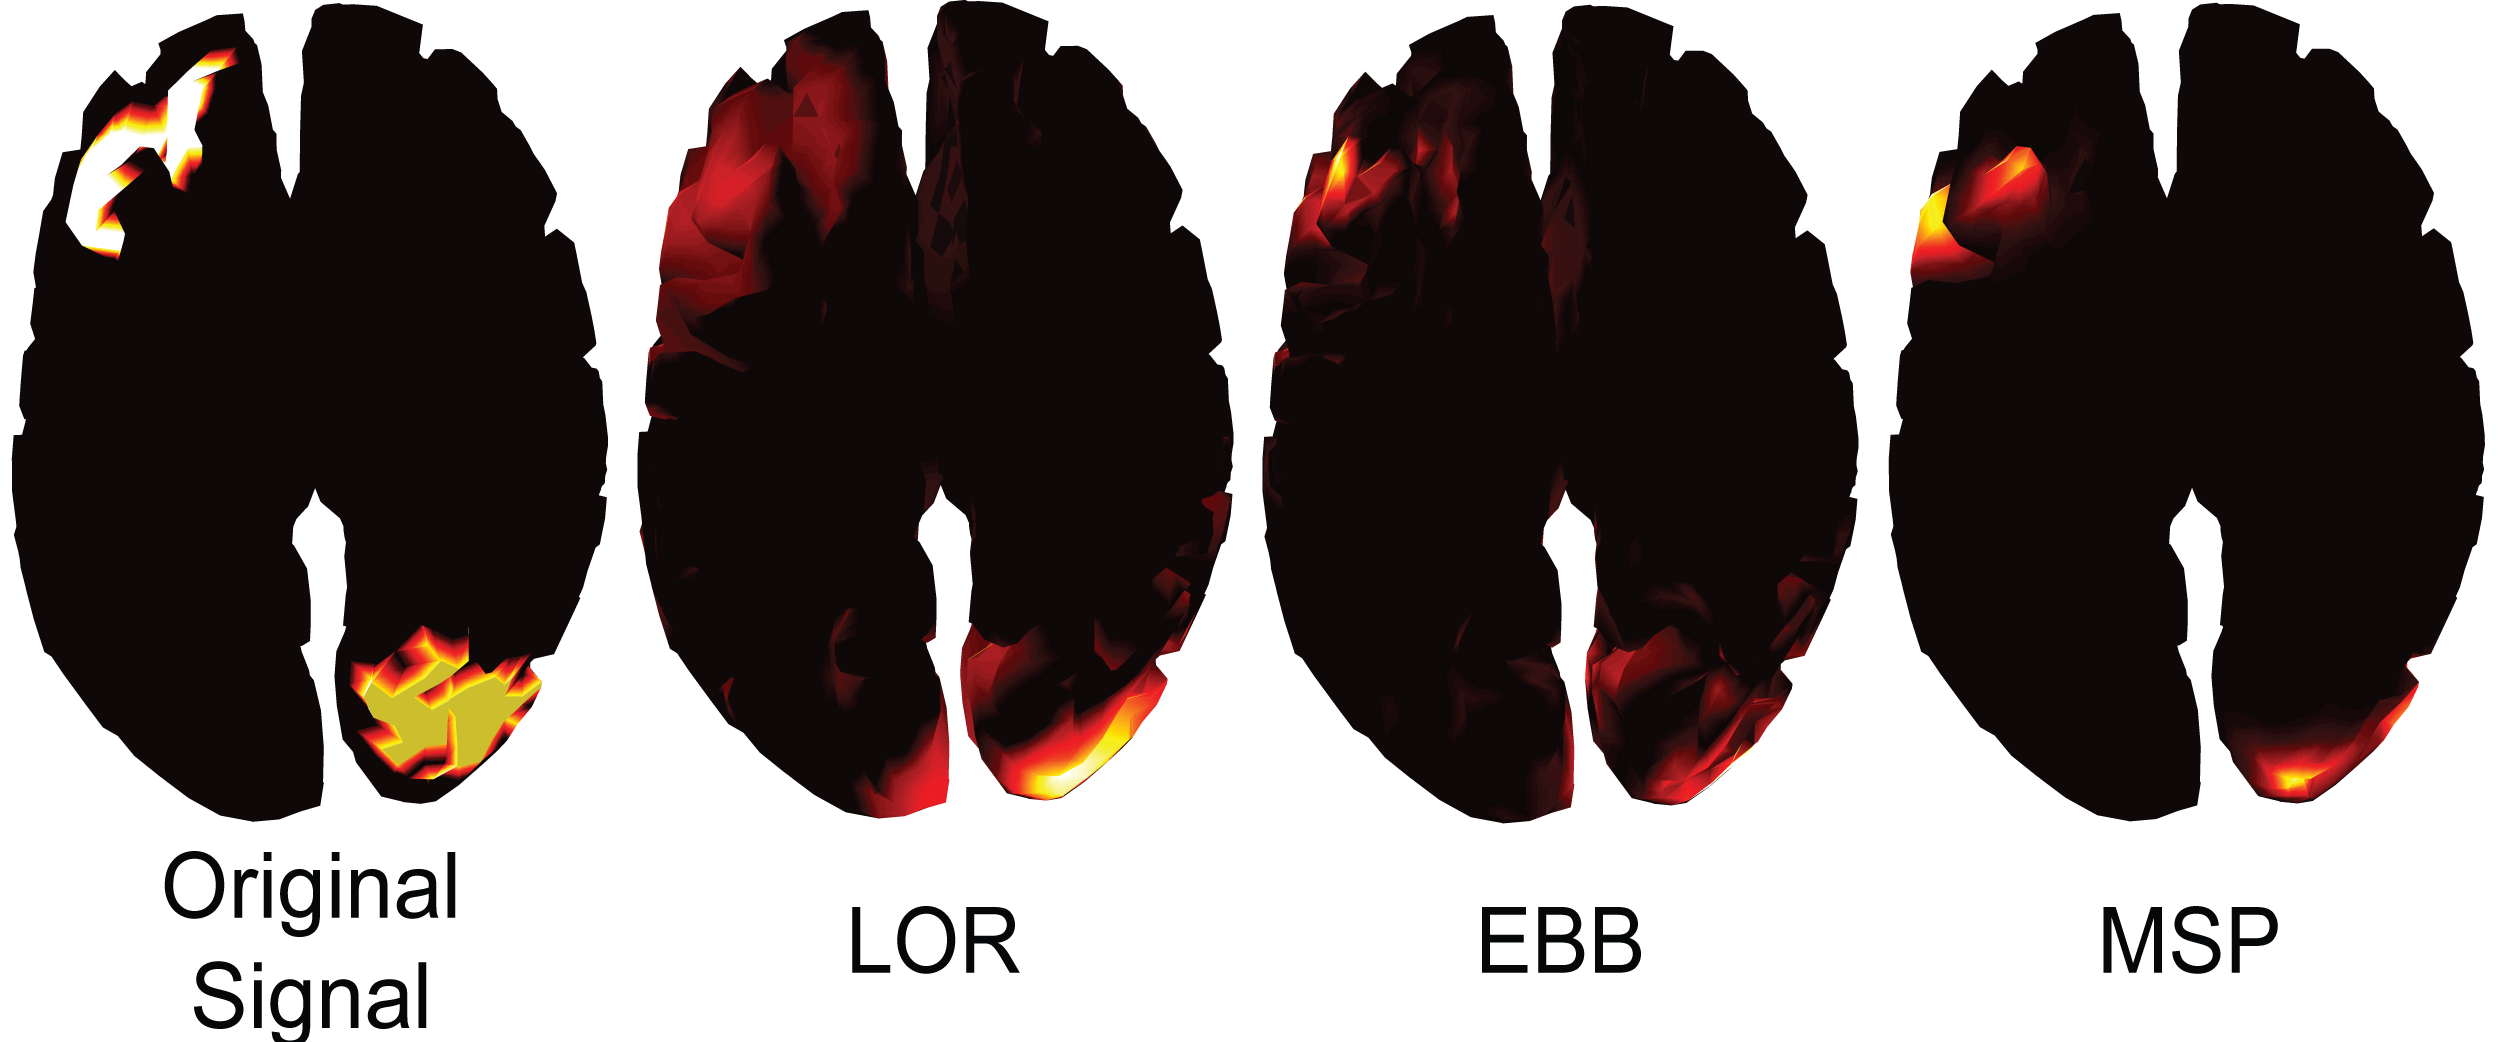
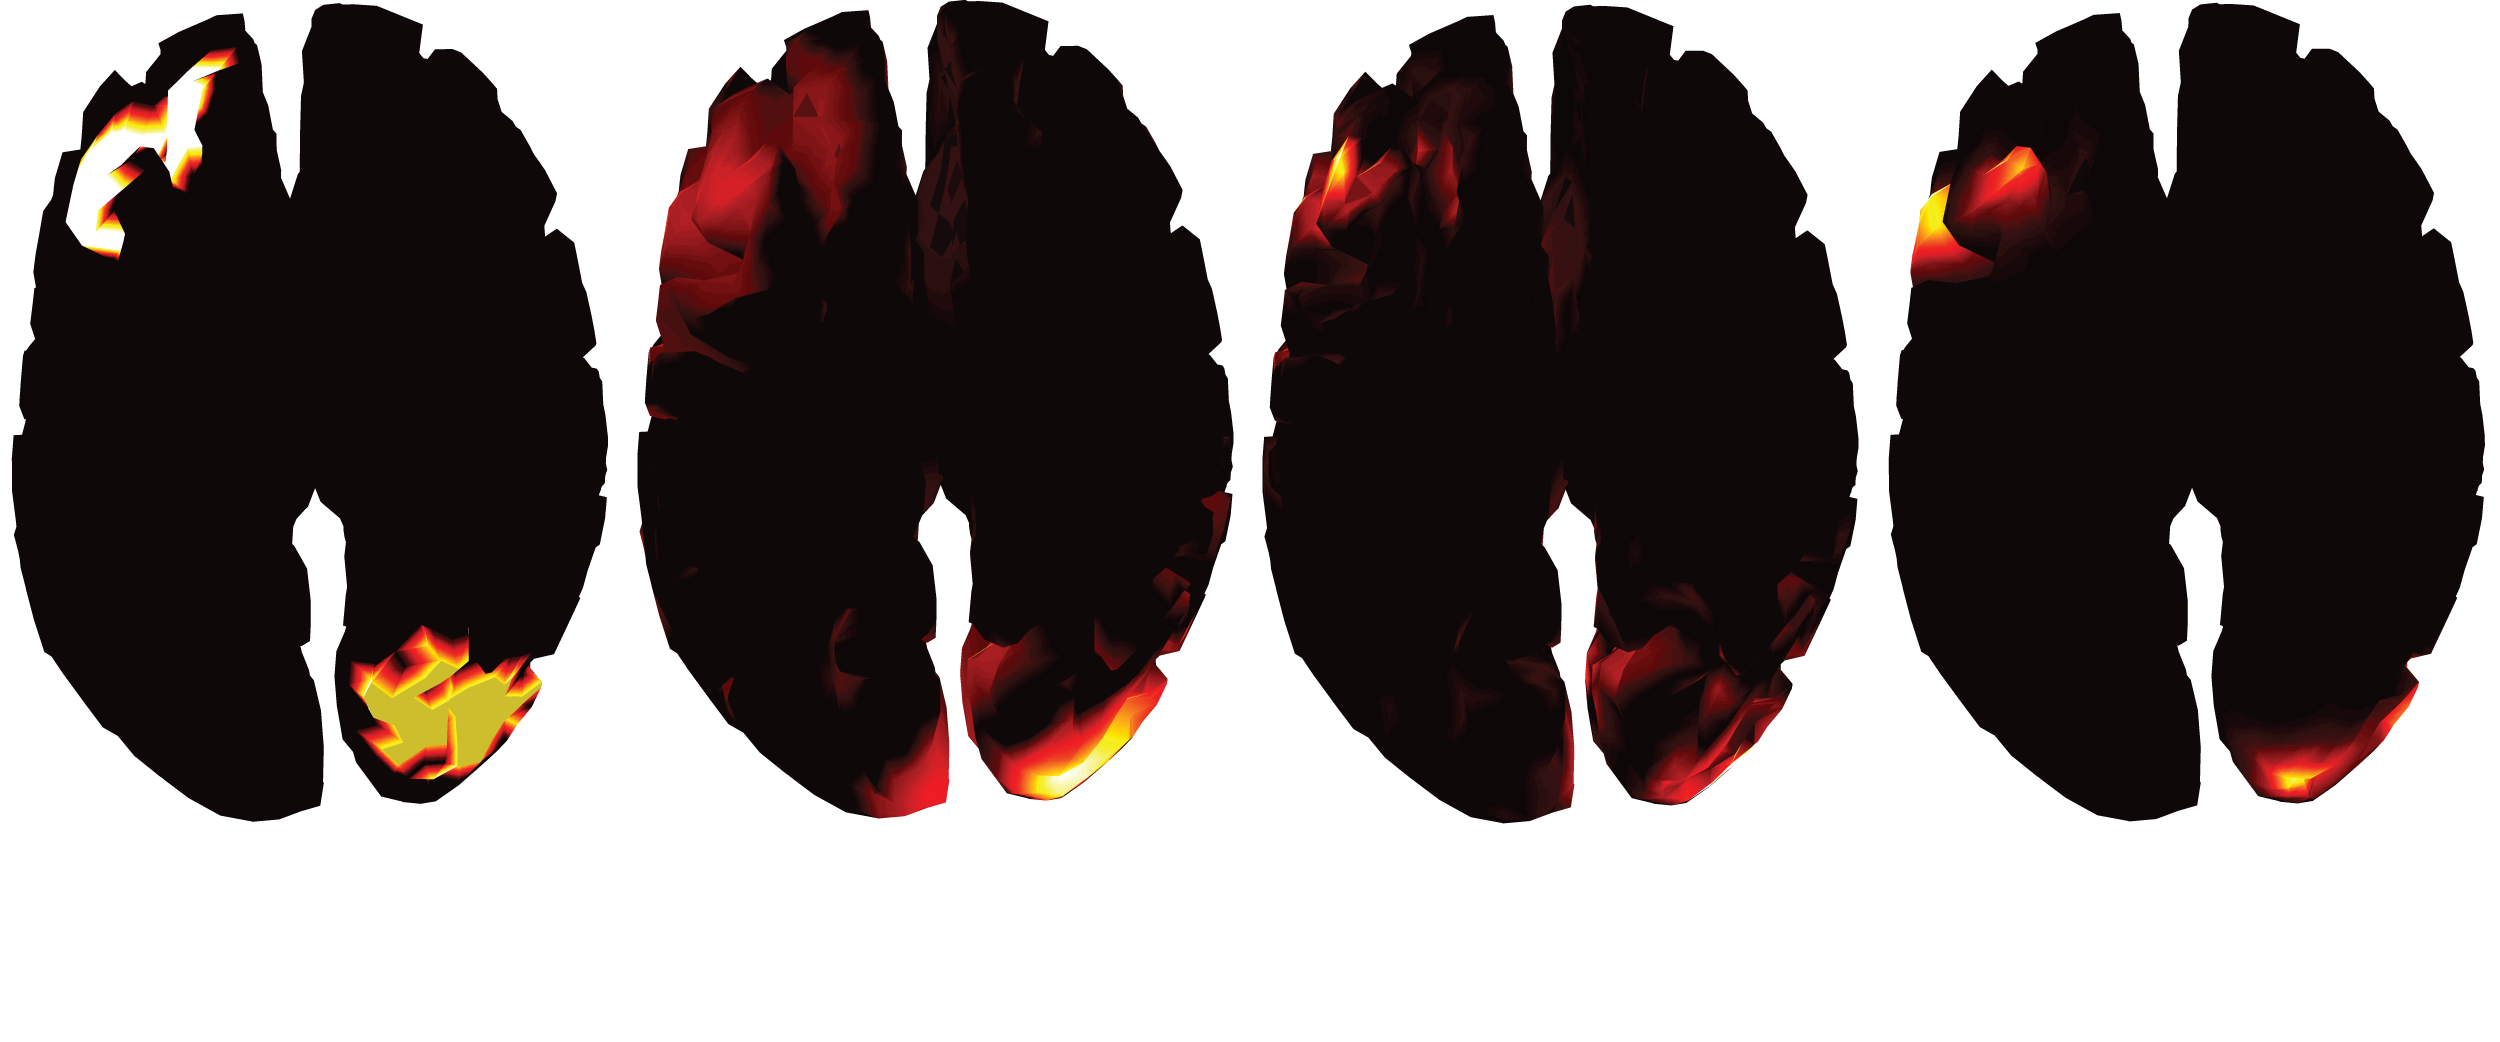
Added Figures

diff --git a/README.md b/README.md
@@ -10,16 +10,20 @@ The combination of high-density electroencephalography (hd-EEG) and transcranial
 ## Methods.
 
 Simulated multi-trial TMS-like responses were created using a phase-jittered damped oscillator model with frequencies and latencies of real TMS-evoked potentials and corrupted by additive pink noise and alpha waves at different intensities. The resulting simulated sources were then applied to dipolar vertices located in the frontal and occipital lobes of a cortical template. A forward operator, calculated by applying the Boundary Element Method to real geometry, was used to project the simulated currents onto a high-density EEG-space. Three well-known inverse methods were then employed to estimate sources from the simulated EEG signals: Loreta (LOR), Empirical Bayesian Beamformer (EBB) and Multiple Sparse Priors (MSP). A non-parametric statistics with respect to the baseline (pre-stimulus) was applied to the estimated currents and significant spatiotemporal patterns of TMS-evoked activations were finally extracted for each method. Localization errors produced by each method were tested by calculating the total number of errors, the geodesic distance to the real activated regions and the intensity of misplaced signals for different levels of noise and current distribution.
-![Figure 1](Figures/Methods%20Fluxogram.jpg)
+![Figure 1](Figures/Fig1.png)
 
 
 ## Results.
 
 There were significant differences between the performances of all three EEG source estimation methods tested in this study. While LOR and EBB tended to spread low intensity currents throughout the cortex, reaching areas that weren’t activated, MSP achieved a better performance in terms of source location. At the same time, when compared with LOR and EBB, the MSP method resulted in misplaced sources having greater current intensities. These observed differences increased with decreasing signal-to-noise ratio and the performances of the three methods converged when simulated sources were less distributed in the cortex.
-![Figure 2](Figures/Fig2_whitetext.png)
+![Figure 2](Figures/Fig2.png)
 
 ## Discussion and Conclusions.
 
 In this work we tested the performance of well-known EEG source localization techniques on simulated TMS-like signals. In accordance with previous results based on peripheral evoked potentials, we found that the **MSP method was able to estimate a better spatial representation of the TMS-evoked responses**, even though **wrong sources in this method tended to show more intense currents than in Loreta and EBB**. Further studies should be conducted to evaluate how the different performances of source estimation methods reported in this work can impact on specific TMS/EEG measures of effective connectivity, such as the Perturbational Complexity Index.
+![Figure3](Figures/Fig3.png)
+
 
 #### **Acknowledgment: São Paulo Research Foundation (FAPESP), grant 2016/08263-9**
+
+## References
